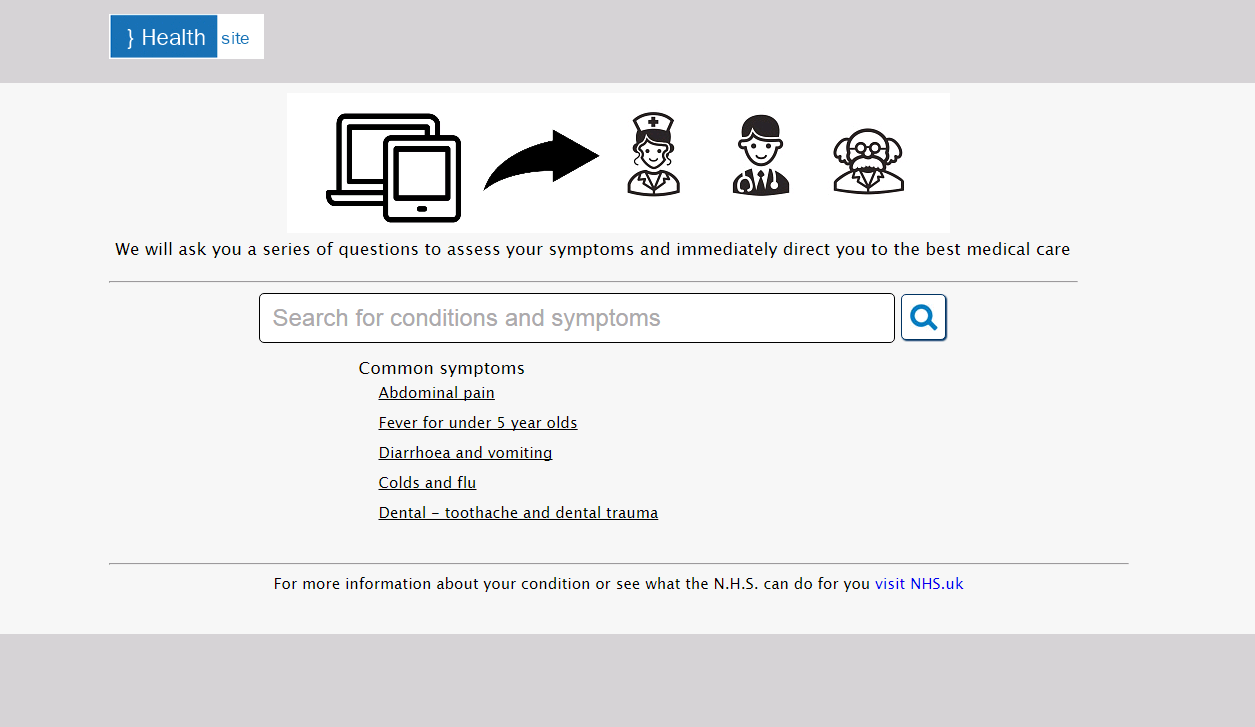
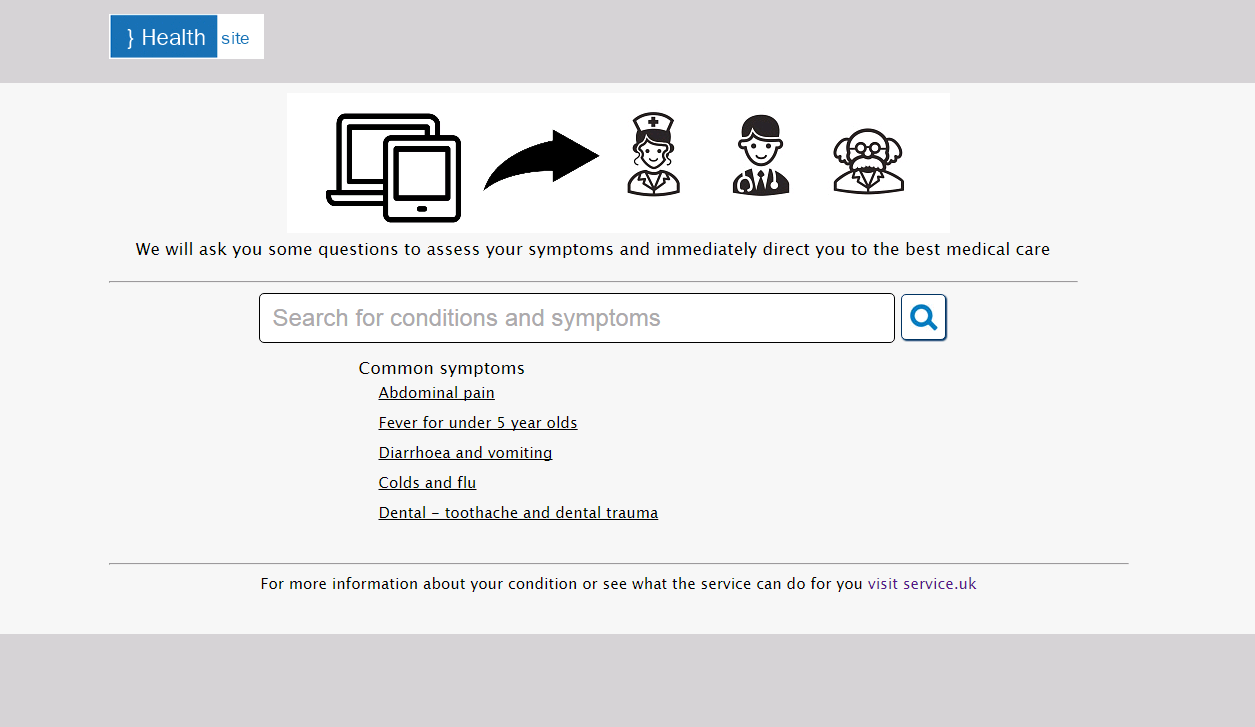
:musical_keyboard: wording changes

Changed region(s): [[0.0932, 0.3329, 0.839, 0.3631], [0.2175, 0.7868, 0.7769, 0.8171]]

diff --git a/prototypes/progress/2/index.html b/prototypes/progress/2/index.html
@@ -79,7 +79,7 @@
             
             <div class="searchWrap">
               <div>
-                <p style="font-size:90%">We will ask you a series of questions to assess your symptoms and immediately direct you to the best medical care</p>
+                <p style="font-size:90%">We will ask you some questions to assess your symptoms and immediately direct you to the best medical care</p>
                 <hr />
                 <label for="searchTags">
                   <input type="text" class="search left rounded" id="searchTags" autocomplete="off" name="searchTags" placeholder="Search for conditions and symptoms" style="margin-left: 150px; border:1px solid black; "/>
@@ -105,7 +105,7 @@
             <br/>
             <hr/>
             <div id="SearchResults" >
-              <p style="font-size: 80%;">For more information about your condition or see what the N.H.S. can do for you <a href="http://www.nhs.uk/" target="_blank">visit NHS.uk</a></p>
+              <p style="font-size: 80%;">For more information about your condition or see what the service can do for you <a href="http://www.nhs.uk/" target="_blank">visit service.uk</a></p>
             </div>
 
             <!--content end-->
